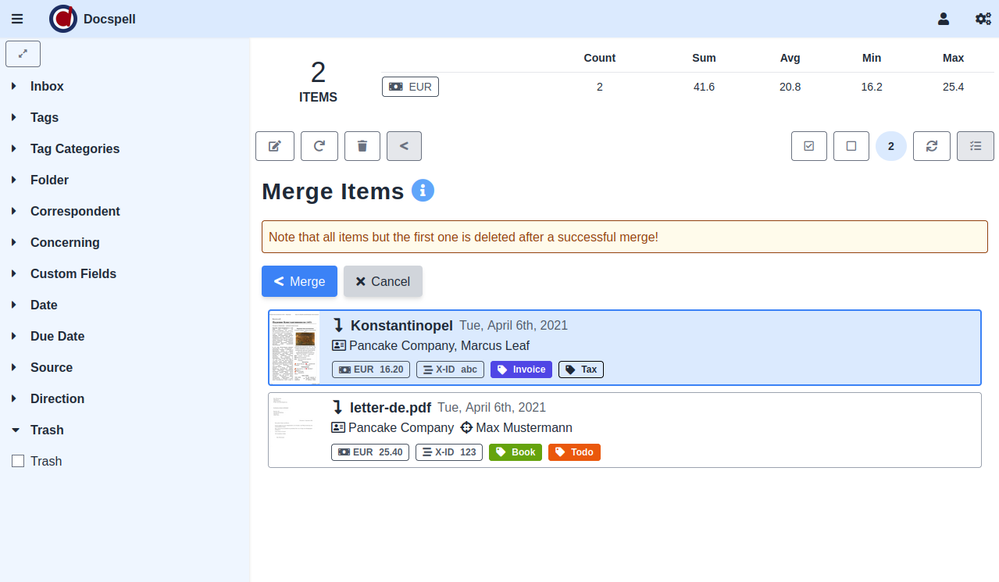
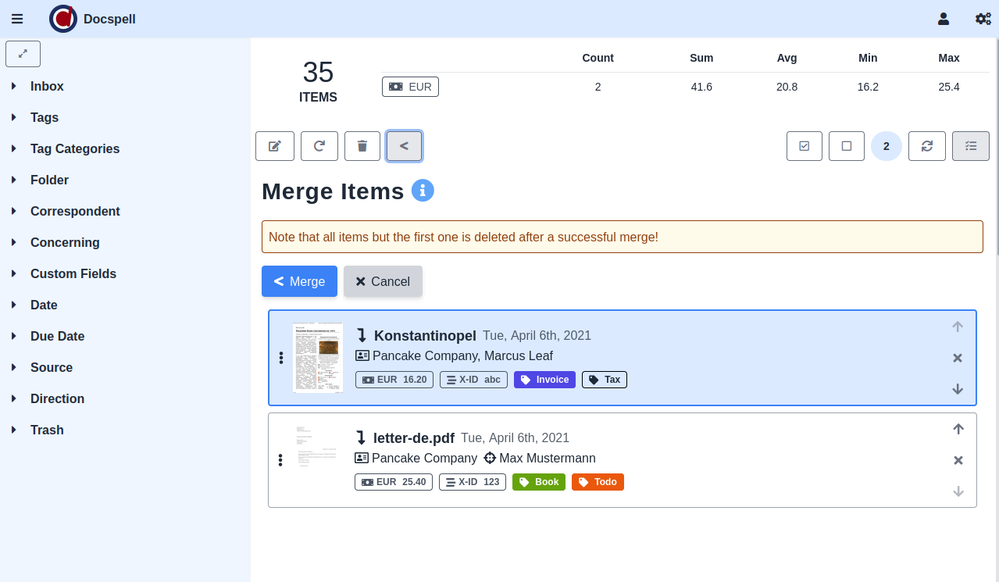
Update merge documentation

diff --git a/website/site/content/docs/webapp/merge.md b/website/site/content/docs/webapp/merge.md
@@ -30,9 +30,7 @@ selected items.
 {{ figure(file="merge-02.png") }}
 
 The order of this list can matter when merging (see below). You can
-move items via drag and drop:
-
-{{ figure(file="merge-03.png") }}
+move items via drag and drop or the buttons on the right.
 
 
 ## Click merge
